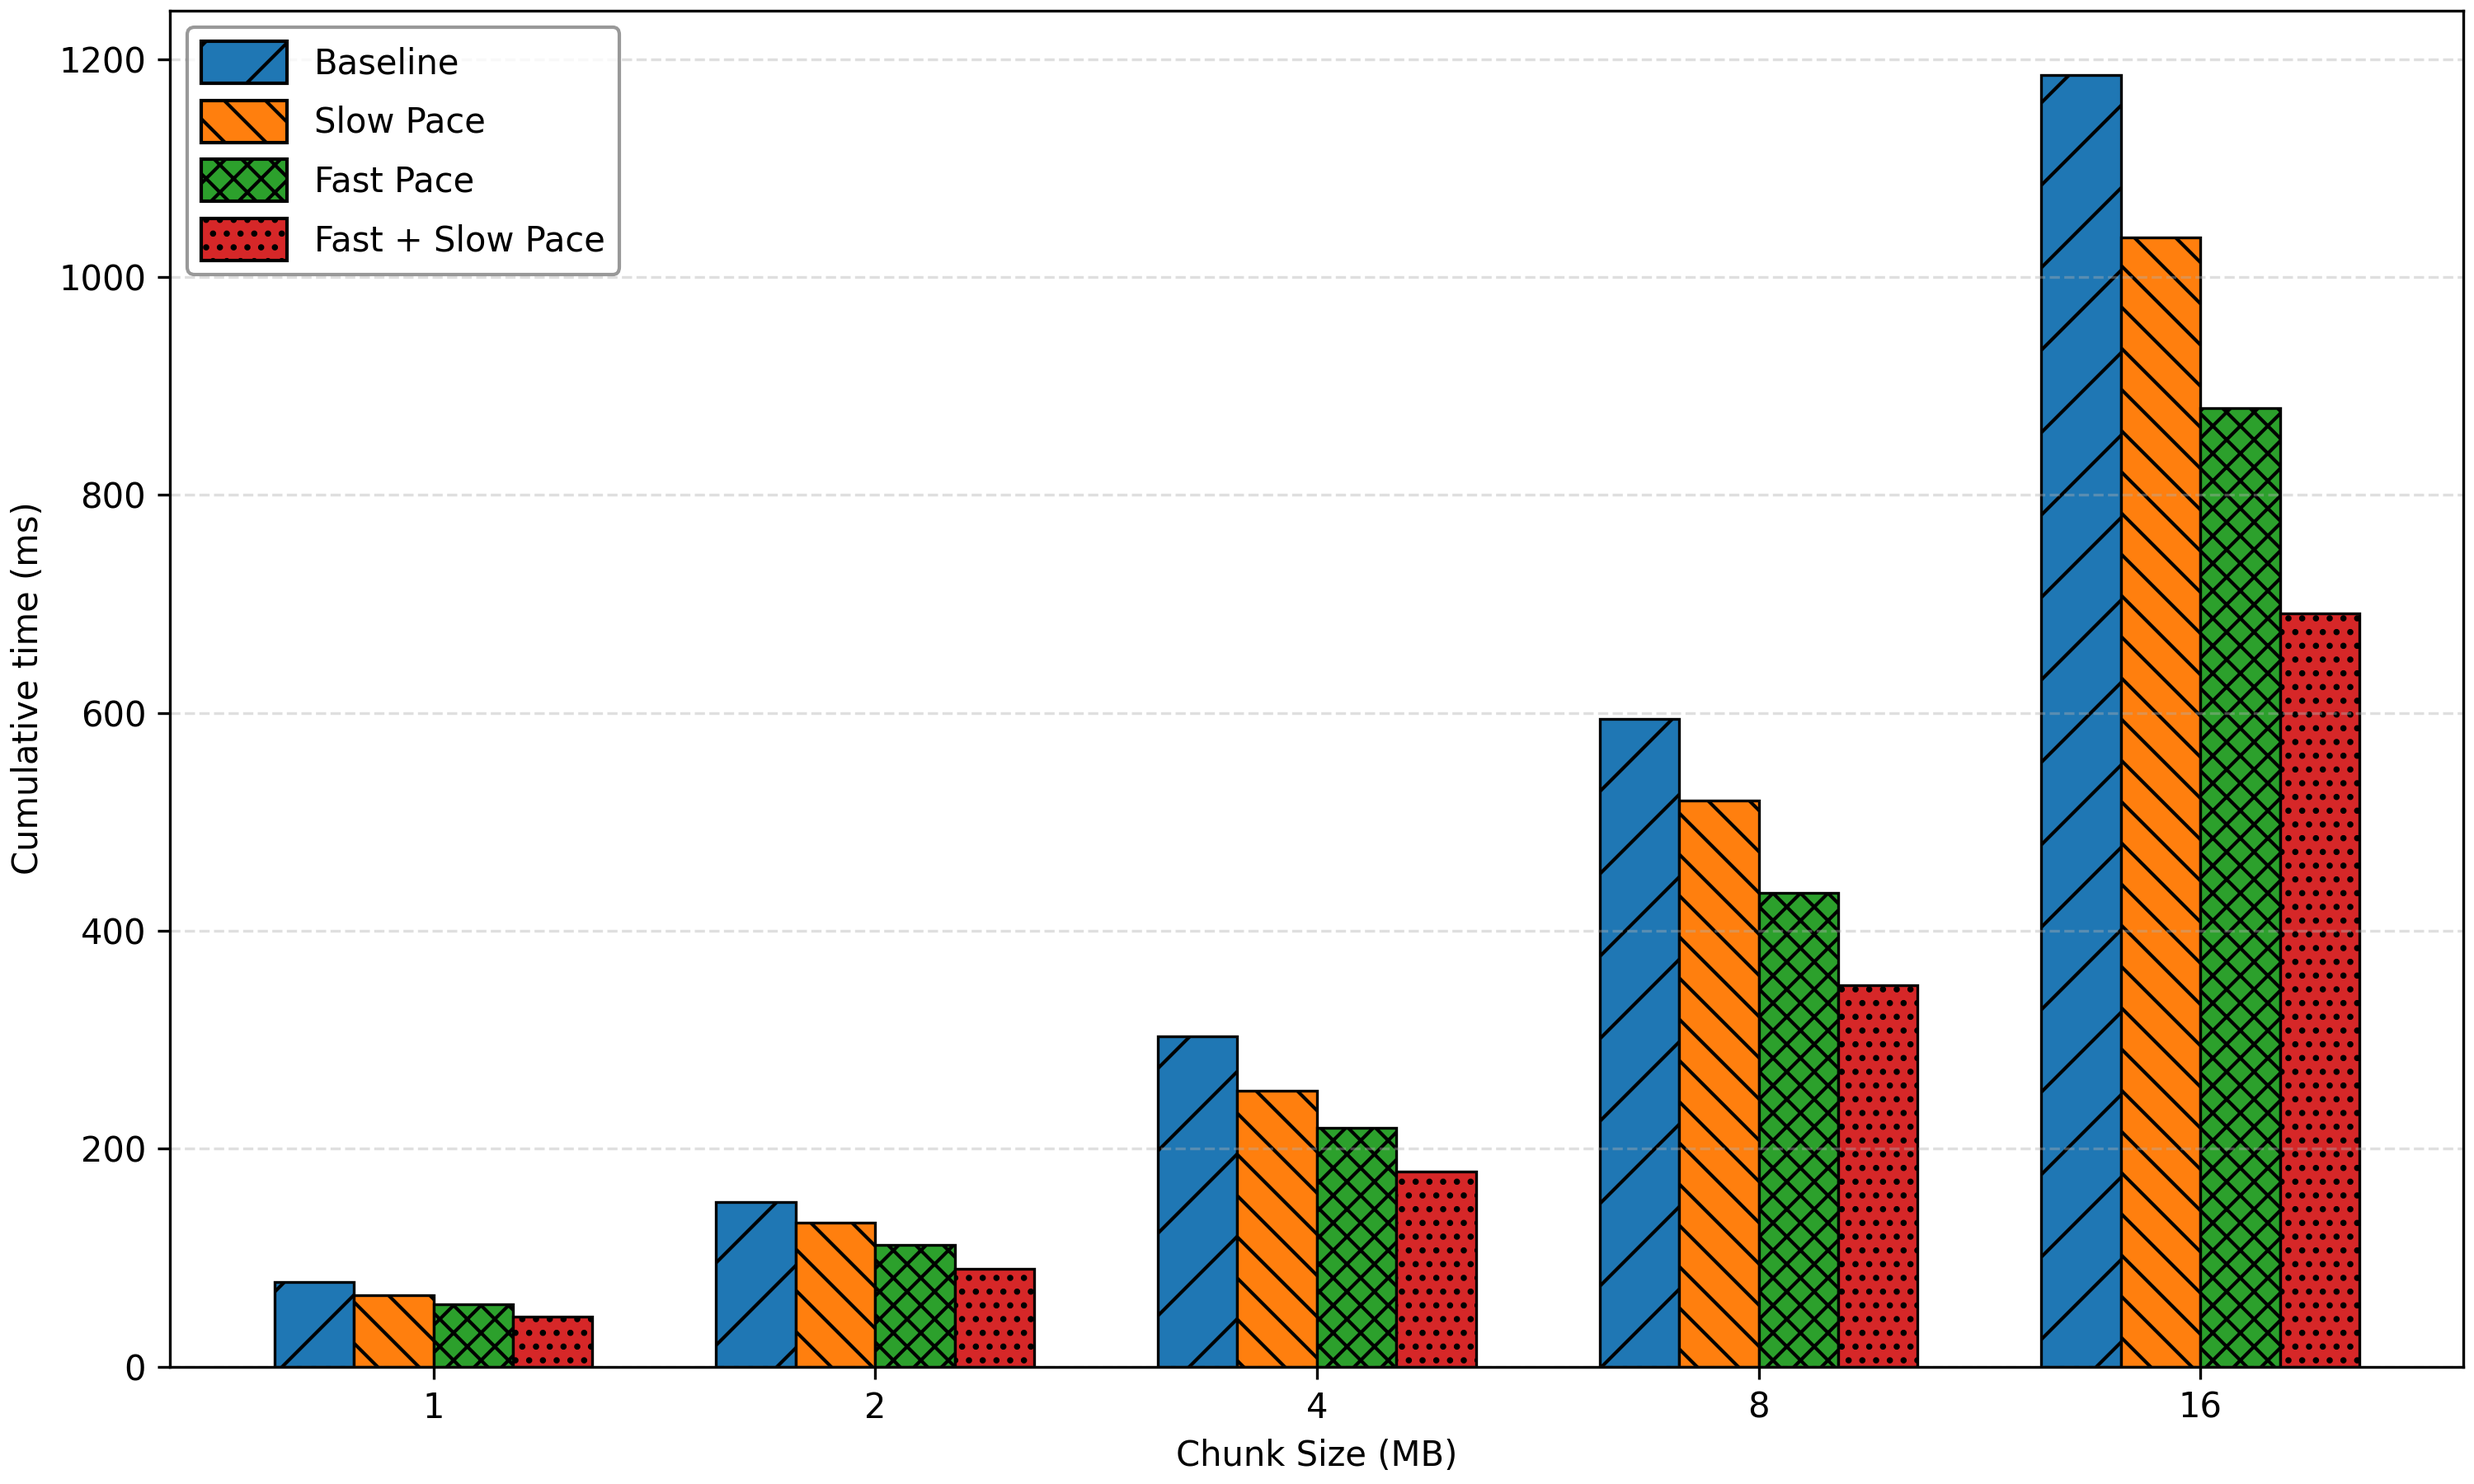
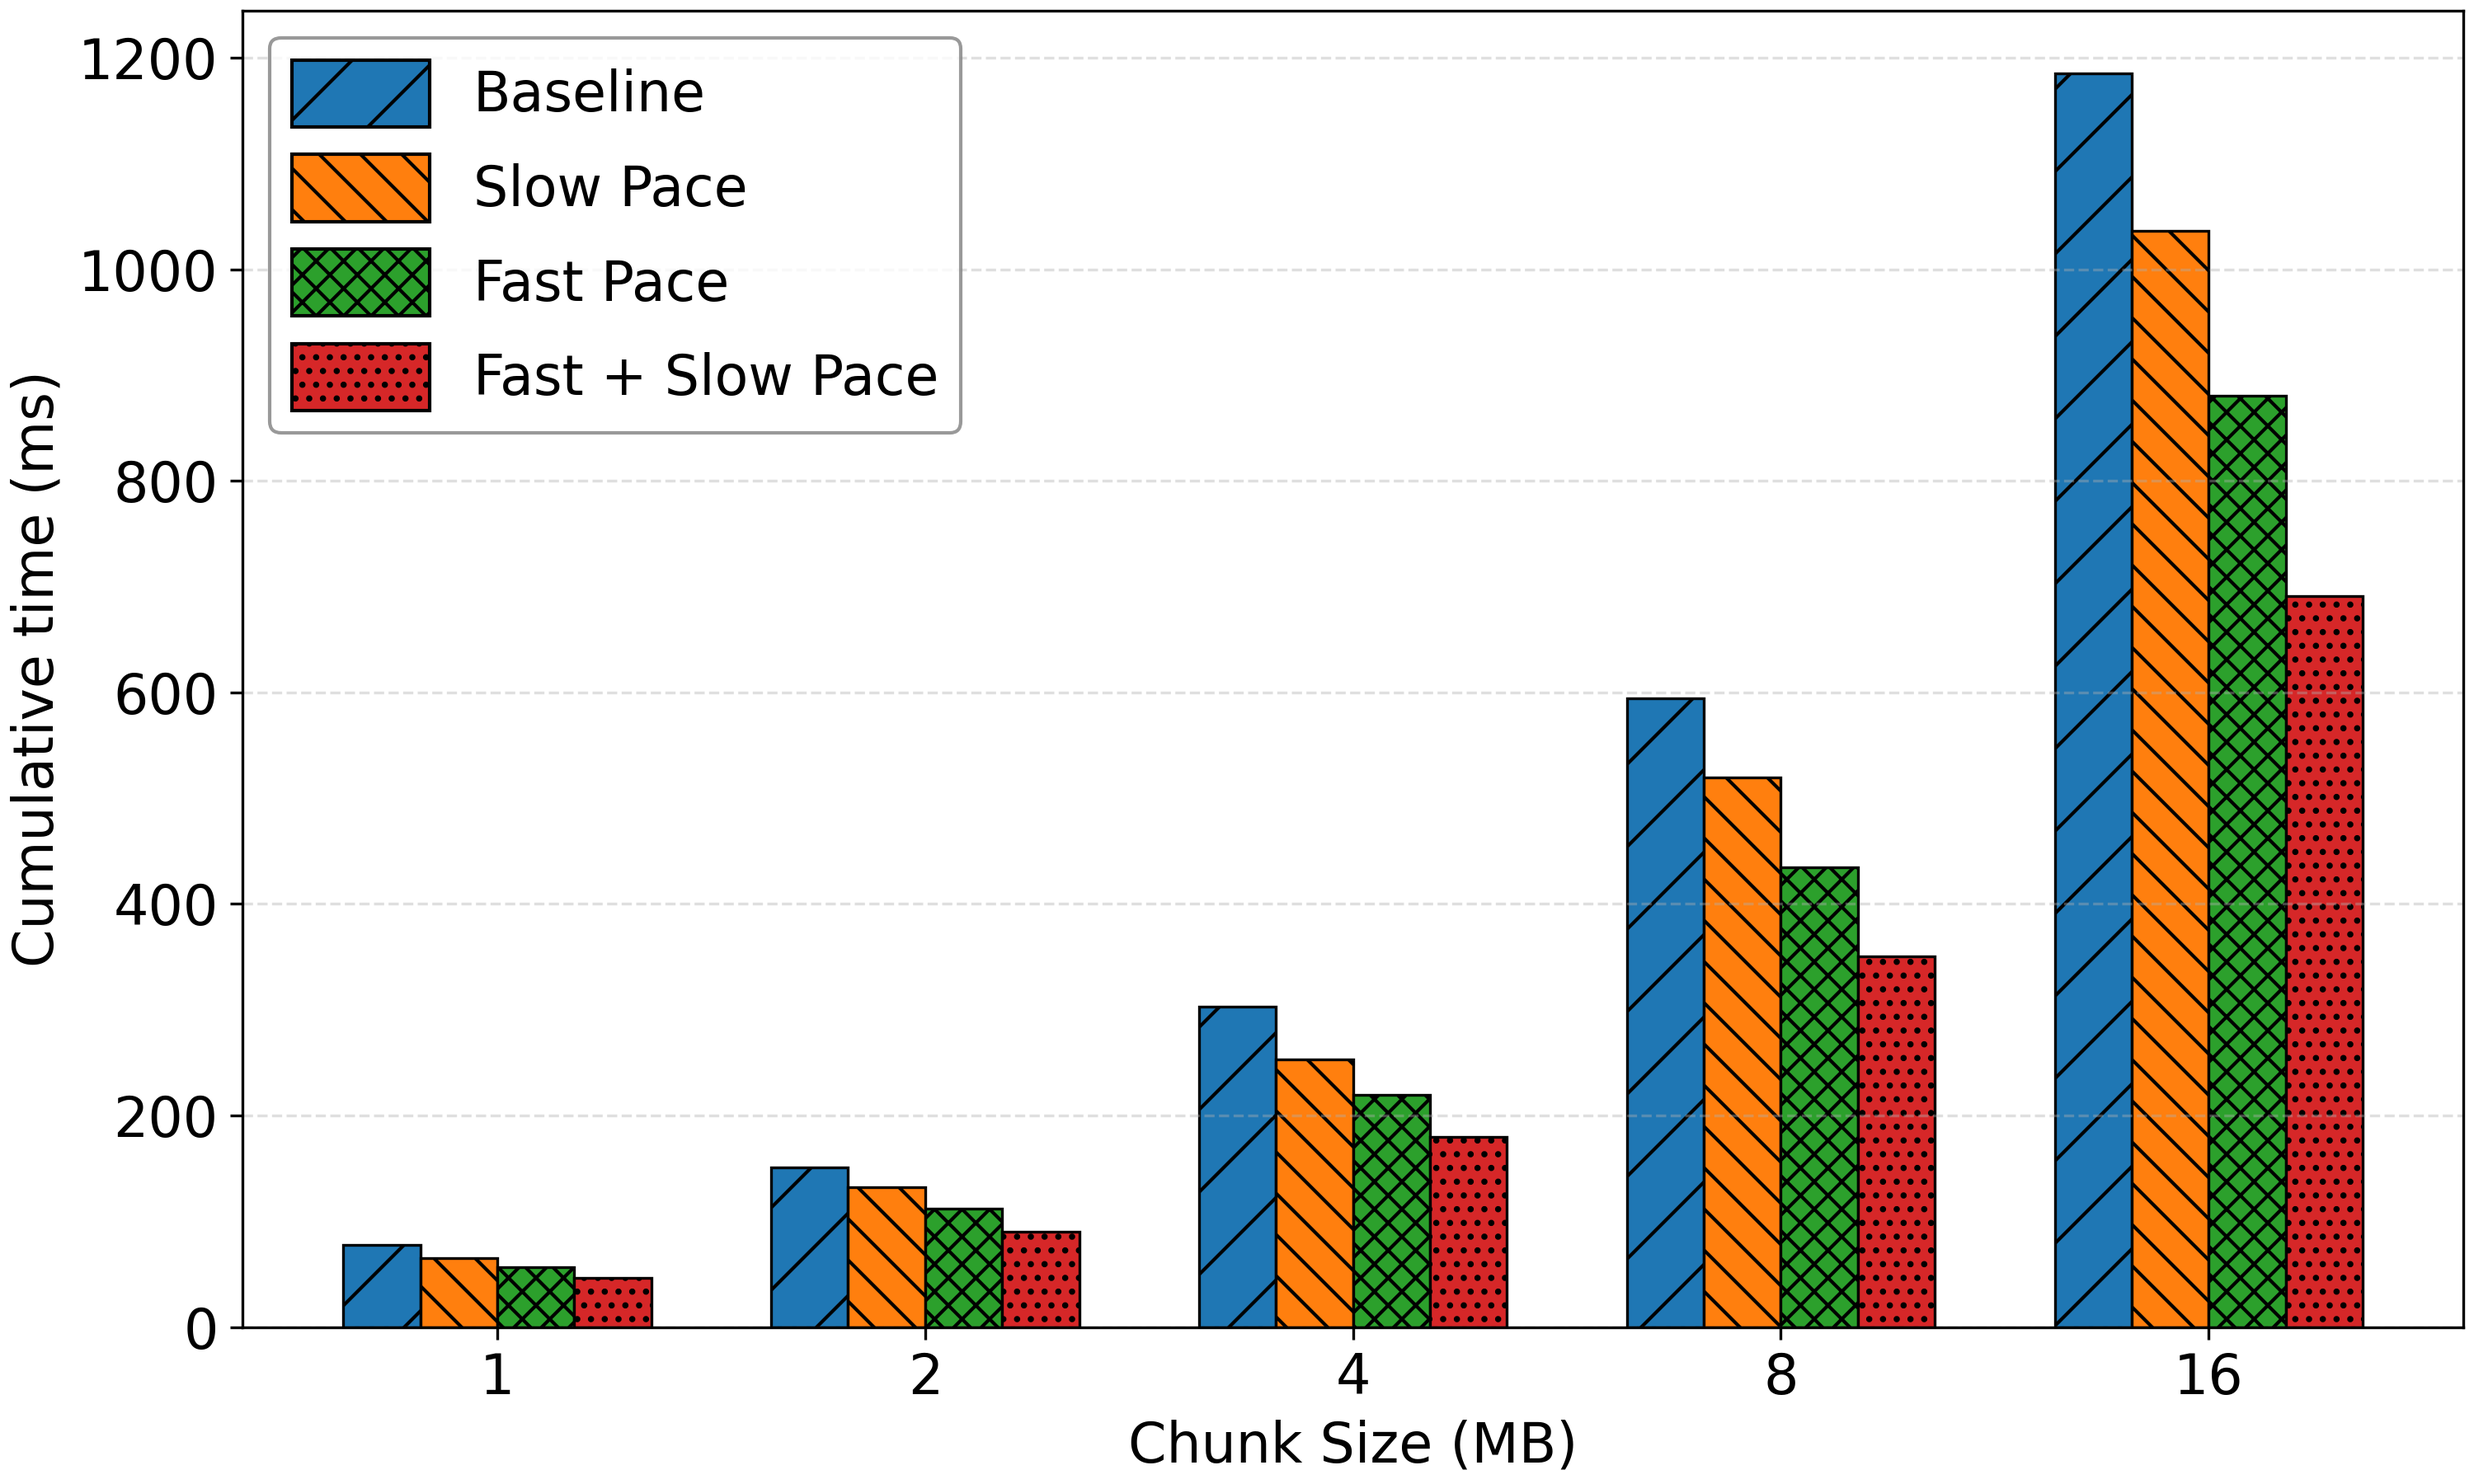
change the plot of the data

diff --git a/Allgather_new_scaleCCL/script_and_result/gpupdc_plot.py b/Allgather_new_scaleCCL/script_and_result/gpupdc_plot.py
@@ -3,7 +3,7 @@ import matplotlib.pyplot as plt
 import numpy as np
 from matplotlib.patches import Patch
 
-def visualize_csv_data(file_path):
+def visualize_gpu_data(file_path):
     # 1. 读取数据
     try:
         df = pd.read_csv(file_path)
@@ -11,9 +11,8 @@ def visualize_csv_data(file_path):
         print(f"错误：找不到文件 '{file_path}'，请检查文件名或路径。")
         return
 
-    # 2. 数据处理：将单位从 us 转换为 ms
+    # 2. 数据处理：保持原始单位 s
     y_labels = df.columns[1:]
-    df[y_labels] = df[y_labels] / 1000
 
     # 3. 提取 X 轴原始数据
     x_col_name = df.columns[0]
@@ -22,23 +21,18 @@ def visualize_csv_data(file_path):
     # 4. 设置绘图参数
     x_indices = np.arange(len(x_values)) 
     num_bars = len(y_labels)
-    width = 0.18 # 柱子宽度
+    width = 0.18 
     
-    # 定义纹理列表
     patterns = ['/', '\\\\', 'xxx', '...', '---'] 
-    # 更新字体大小以适应图表
     plt.rcParams.update({'font.size': 16})
-    # 获取颜色循环
     colors = plt.rcParams['axes.prop_cycle'].by_key()['color']
 
     fig, ax = plt.subplots(figsize=(10, 6), layout='constrained')
 
-    # 存储自定义图例句柄
     legend_elements = []
 
     # 5. 循环绘制每一组数据
     for i, attribute in enumerate(y_labels):
-        # 居中对齐逻辑
         offset = (i - (num_bars - 1) / 2) * width
         pos = x_indices + offset
         
@@ -61,8 +55,11 @@ def visualize_csv_data(file_path):
 
     # 6. 修饰图表
     ax.set_xlabel(x_col_name)
-    ax.set_ylabel('Cumulative time (ms)')
+    ax.set_ylabel('Cumulative time (s)') 
     ax.set_title('')
+    
+    # --- 新增：设置纵坐标范围 ---
+    ax.set_ylim(0, 600) 
     
     # 7. 设置 X 轴刻度
     ax.set_xticks(x_indices)
@@ -70,7 +67,7 @@ def visualize_csv_data(file_path):
     
     # 8. 优化图例
     ax.legend(handles=legend_elements, 
-              loc='upper left', 
+              loc='upper right', 
               frameon=True, 
               edgecolor='gray',
               handlelength=2.5, 
@@ -79,10 +76,10 @@ def visualize_csv_data(file_path):
     ax.grid(axis='y', linestyle='--', alpha=0.4)
 
     # 9. 保存并显示
-    plt.savefig('alpha_result.png', dpi=300)
+    plt.savefig('gpu_result.png', dpi=300)
     plt.show()
 
 if __name__ == "__main__":
-    # 使用原始字符串(r)防止反斜杠转义（特别是 \a 会被误认为响铃符）
-    target_csv = r"script_and_result\alpha_result.csv"
-    visualize_csv_data(target_csv)
+    # 使用 r 前缀防止路径转义
+    target_csv = r"script_and_result\gpu_result_linux.csv"
+    visualize_gpu_data(target_csv)

diff --git a/Allgather_new_scaleCCL/script_and_result/simai_plot.py b/Allgather_new_scaleCCL/script_and_result/simai_plot.py
@@ -1,0 +1,56 @@
+import pandas as pd
+import matplotlib.pyplot as plt
+
+df = pd.read_csv('./script_and_result/low_latency.csv')
+df = df.drop(index=0).reset_index(drop=True)
+df_high = pd.read_csv('./script_and_result/high_latency.csv')
+df = pd.concat([df, df_high], ignore_index=True)
+
+plt.rcParams.update({'font.size': 16})
+plt.figure(figsize=(10, 6))
+
+# Theory: 无标记实线，作为"底层"参考，不与 Our Simulator 的标记争夺视觉
+plt.plot(df['Latency'], df['Theory'],
+         label='Theory',
+         marker='x',              # 去掉标记，避免与 Our Simulator 重叠
+         color='blue',
+         linestyle='-',
+         linewidth=2,
+         markeredgewidth=1.5,
+         markersize=6,
+        )
+
+# SimAi
+plt.plot(df['Latency'], df['SimAi'],
+         label='SimAi',
+         marker='s',
+         markerfacecolor='none',
+         markeredgecolor='red',
+         markeredgewidth=1.5,
+         color='red',
+         linestyle='--',
+         linewidth=2,
+         markersize=6,
+        )
+
+# Our Simulator: 只有标记、无连线，"浮"在 Theory 实线上
+# 空心大标记，可以透过看到下面的蓝线，同时自身清晰可辨
+plt.plot(df['Latency'], df['CCL_Simulator'],
+         label='Our Simulator',
+         marker='o',
+         markerfacecolor='none',
+         markeredgecolor='green',
+         markeredgewidth=1.5,
+         color='green',
+         linestyle=':',           # 去掉连线，线由 Theory 代替
+         linewidth=2,
+         markersize=10,
+        )
+
+plt.xscale('log')
+plt.xlabel('Latency (ms)')
+plt.ylabel('Communication Time (us)')
+plt.legend()
+plt.grid(True)
+plt.savefig('script_and_result/simai_latency_result.png')
+plt.show()

diff --git a/Allgather_new_scaleCCL/script_and_result/chunk_plot.py b/Allgather_new_scaleCCL/script_and_result/chunk_plot.py
@@ -26,6 +26,8 @@ def visualize_csv_data(file_path):
     
     # 定义纹理列表
     patterns = ['/', '\\\\', 'xxx', '...', '---'] 
+    # 更新字体大小以适应图表
+    plt.rcParams.update({'font.size': 16})
     # 获取颜色循环
     colors = plt.rcParams['axes.prop_cycle'].by_key()['color']
 
